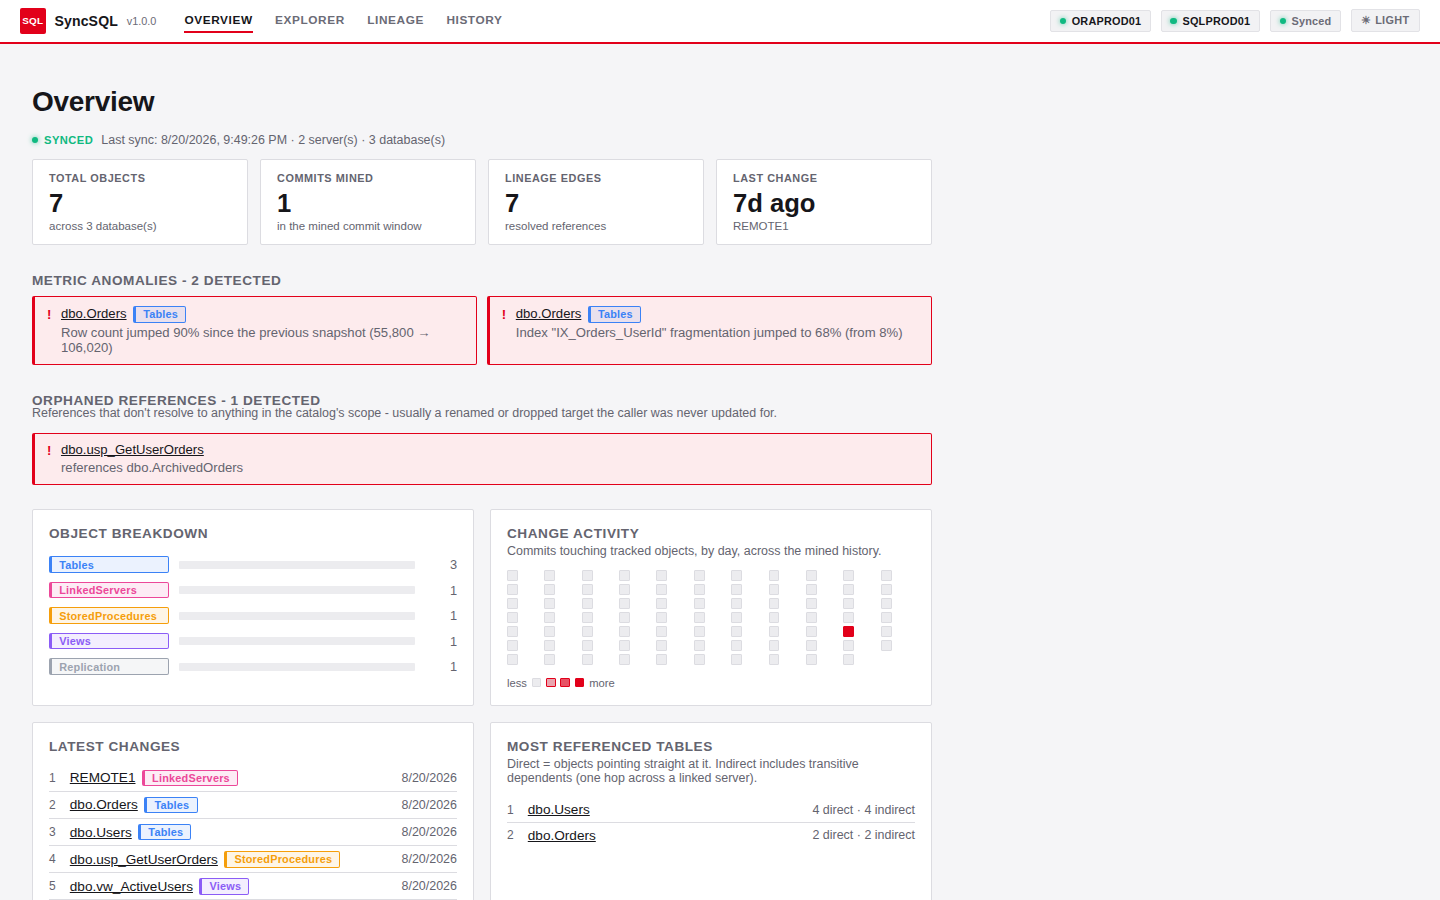
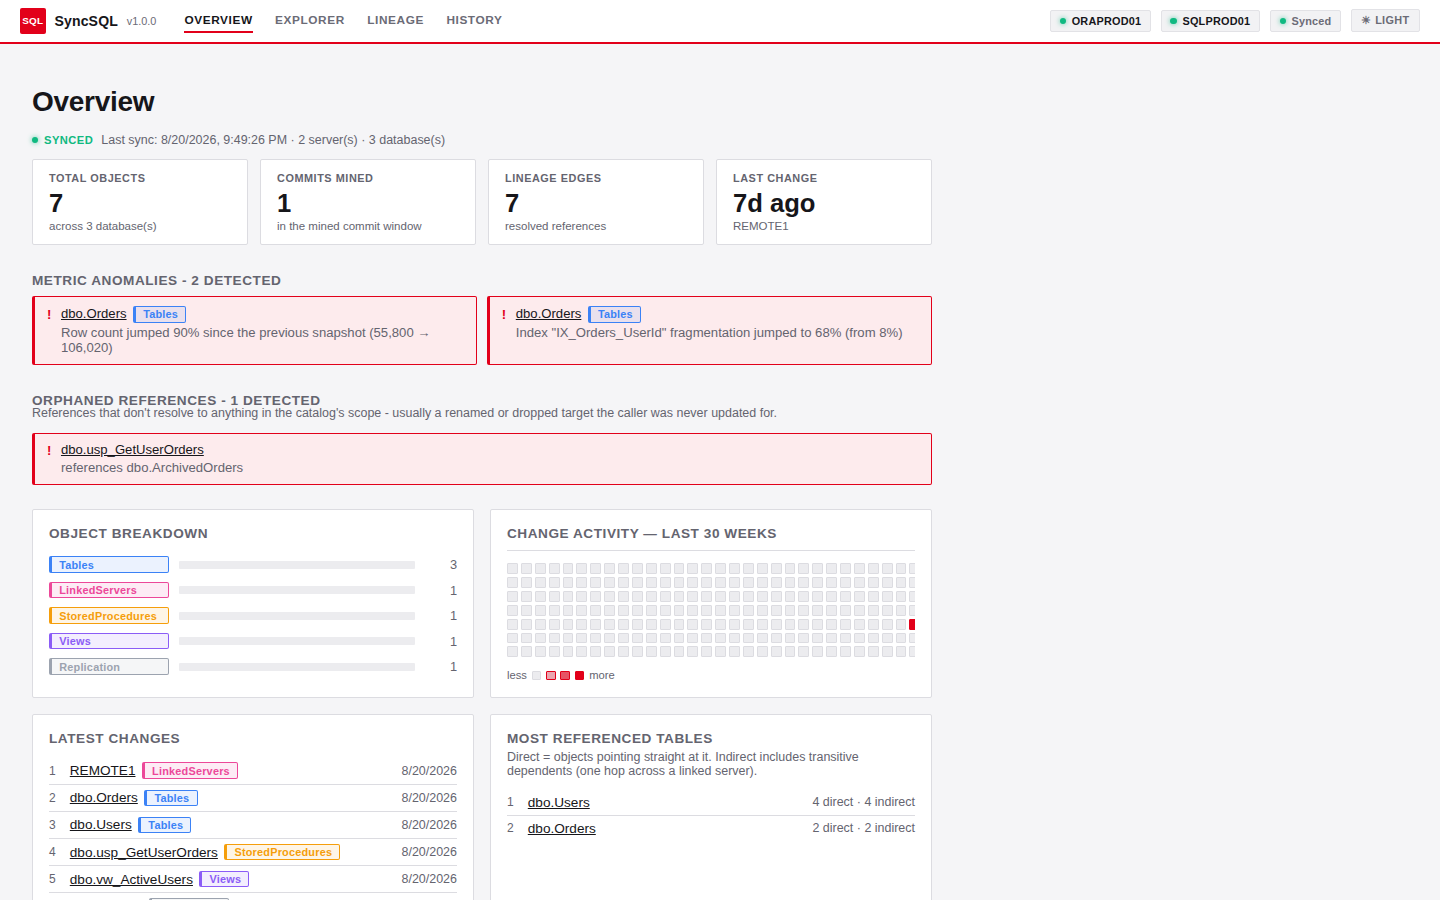
Widen change-activity heatmap to 30 weeks, drop Overview footer
Change activity now spans 30 weeks (was 10) with a "Change activity —
last 30 weeks" title and a divider rule under it, matching the
requested layout. Removes the lineage-disclaimer footer paragraph from
the bottom of the Overview page and its now-unused .disclaimer style.
Refreshes affected README screenshots.

Changed region(s): [[0.3438, 0.5911, 0.6562, 0.9333], [0.0312, 0.7778, 0.3125, 1.0]]

diff --git a/site/src/pages/Home.tsx b/site/src/pages/Home.tsx
@@ -1,7 +1,7 @@
 import { Link } from 'react-router-dom'
 import { useCatalog } from '../lib/CatalogContext'
 import TypeBadge from '../components/TypeBadge'
-import ChangeActivityHeatmap from '../components/ChangeActivityHeatmap'
+import ChangeActivityHeatmap, { CHANGE_ACTIVITY_WEEKS } from '../components/ChangeActivityHeatmap'
 import { formatRelative, getCoChangePairs, getMostChanged, getRecentlyChanged, getTopReferencedTables, intensity } from '../lib/analytics'
 import { detectMetricAnomalies } from '../lib/anomalies'
 import { colorForType } from '../lib/typeColors'
@@ -139,8 +139,7 @@ export default function Home() {
         </section>
 
         <section className="overview-panel">
-          <h2>Change activity</h2>
-          <p className="muted overview-panel-hint">Commits touching tracked objects, by day, across the mined history.</p>
+          <h2 className="panel-title-divided">Change activity &mdash; last {CHANGE_ACTIVITY_WEEKS} weeks</h2>
           {catalog.recentChanges.length === 0 ? (
             <p className="muted">No change history mined for this run (analyze-catalog ran without -RepoRoot).</p>
           ) : (
@@ -238,13 +237,6 @@ export default function Home() {
           </li>
         ))}
       </ul>
-
-      <p className="disclaimer">
-        Data lineage on the <Link to="/lineage">Lineage</Link> page is inferred by regex-matching object names inside
-        each object&apos;s DDL text - not a real SQL parser. Treat it as a starting point for exploration, not a
-        certified lineage report: it can miss dynamic SQL and cross-linked-server references, and can occasionally
-        produce a false-positive edge when an identifier collides with an unrelated object name.
-      </p>
     </div>
   )
 }

diff --git a/site/src/components/ChangeActivityHeatmap.tsx b/site/src/components/ChangeActivityHeatmap.tsx
@@ -2,7 +2,7 @@ import type { CSSProperties } from 'react'
 import type { CatalogCommit } from '../types'
 import { intensity } from '../lib/analytics'
 
-const WINDOW_DAYS = 70
+export const CHANGE_ACTIVITY_WEEKS = 30
 
 interface Cell {
   key: string
@@ -12,7 +12,7 @@ interface Cell {
 }
 
 /** GitHub-style contribution calendar over the mined commit history, grouped by day. */
-export default function ChangeActivityHeatmap({ commits }: { commits: CatalogCommit[] }) {
+export default function ChangeActivityHeatmap({ commits, weeks = CHANGE_ACTIVITY_WEEKS }: { commits: CatalogCommit[]; weeks?: number }) {
   const today = new Date()
   today.setHours(0, 0, 0, 0)
 
@@ -26,14 +26,14 @@ export default function ChangeActivityHeatmap({ commits }: { commits: CatalogCom
   }
 
   const start = new Date(today)
-  start.setDate(start.getDate() - (WINDOW_DAYS - 1))
+  start.setDate(start.getDate() - (weeks * 7 - 1))
   start.setDate(start.getDate() - start.getDay()) // pad back to the preceding Sunday
 
   const totalDays = Math.round((today.getTime() - start.getTime()) / 86400000) + 1
-  const weeks = Math.ceil(totalDays / 7)
+  const columnWeeks = Math.ceil(totalDays / 7)
 
   const cells: Cell[] = []
-  for (let i = 0; i < weeks * 7; i++) {
+  for (let i = 0; i < columnWeeks * 7; i++) {
     const d = new Date(start)
     d.setDate(d.getDate() + i)
     cells.push({ key: dayKey(d), date: d, count: counts.get(dayKey(d)) ?? 0, future: d > today })

diff --git a/site/src/styles.css b/site/src/styles.css
@@ -538,6 +538,12 @@ a {
   color: var(--text-muted);
 }
 
+.overview-panel h2.panel-title-divided {
+  padding-bottom: 0.6rem;
+  margin-bottom: 0.75rem;
+  border-bottom: 1px solid var(--border);
+}
+
 .section-label {
   font-size: 0.85rem;
   text-transform: uppercase;
@@ -601,15 +607,6 @@ a {
   border-radius: 1px;
   flex-shrink: 0;
   border: 1px solid var(--border);
-}
-
-.disclaimer {
-  margin-top: 2rem;
-  padding: 0.75rem 1rem;
-  border-left: 3px solid var(--accent);
-  background: var(--surface);
-  font-size: 0.85rem;
-  color: var(--text-muted);
 }
 
 .orphaned-ref-warning {
